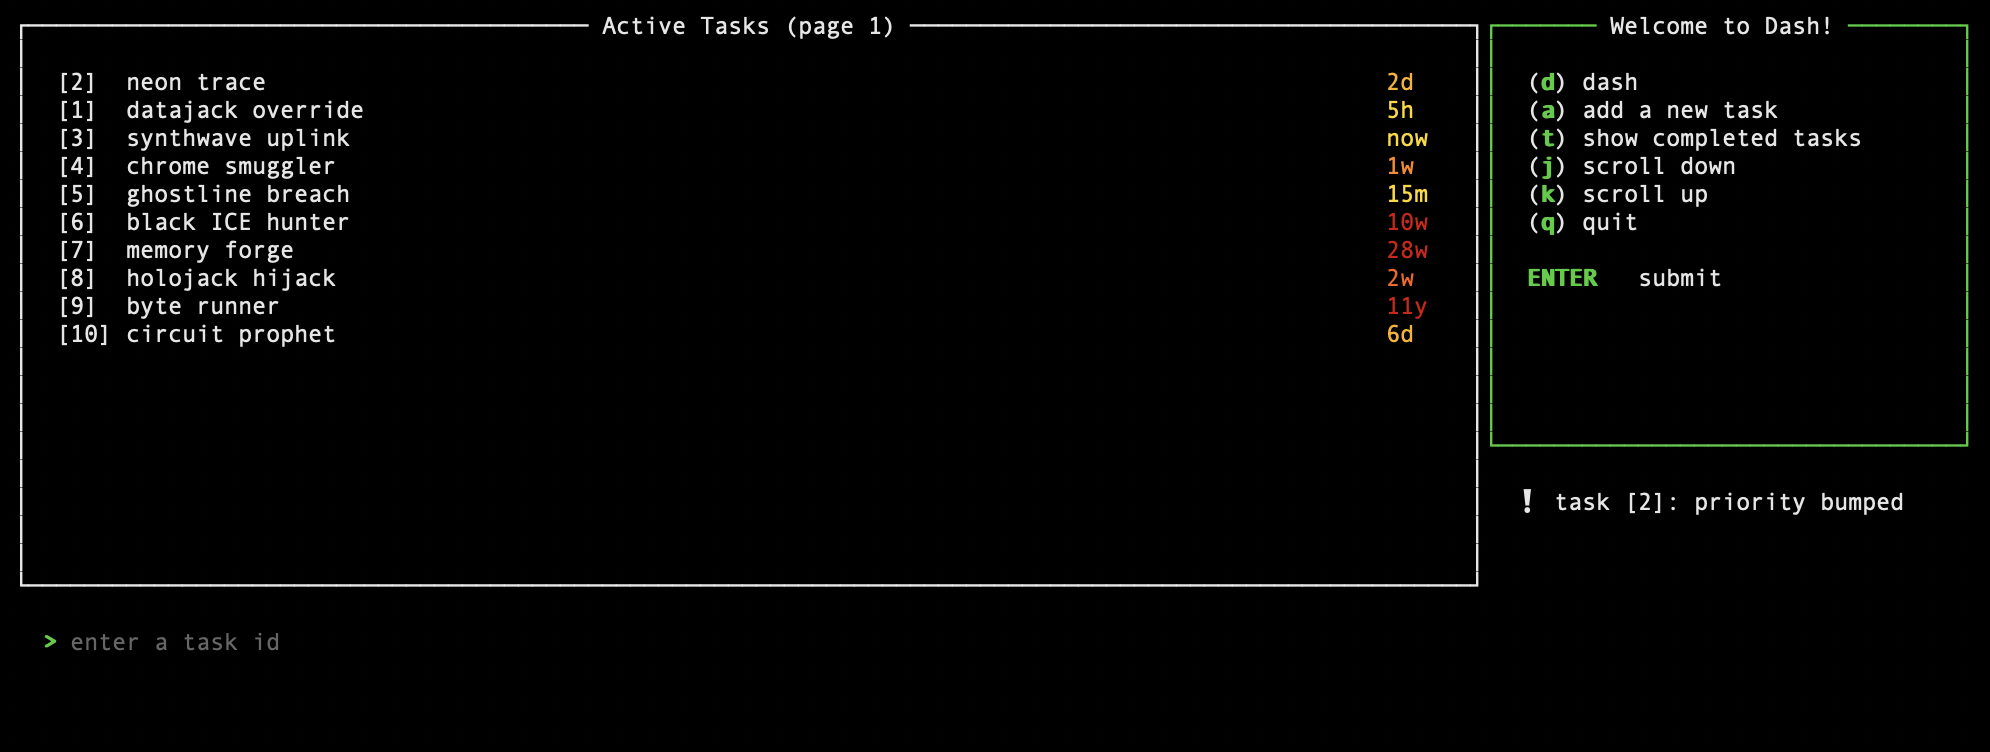
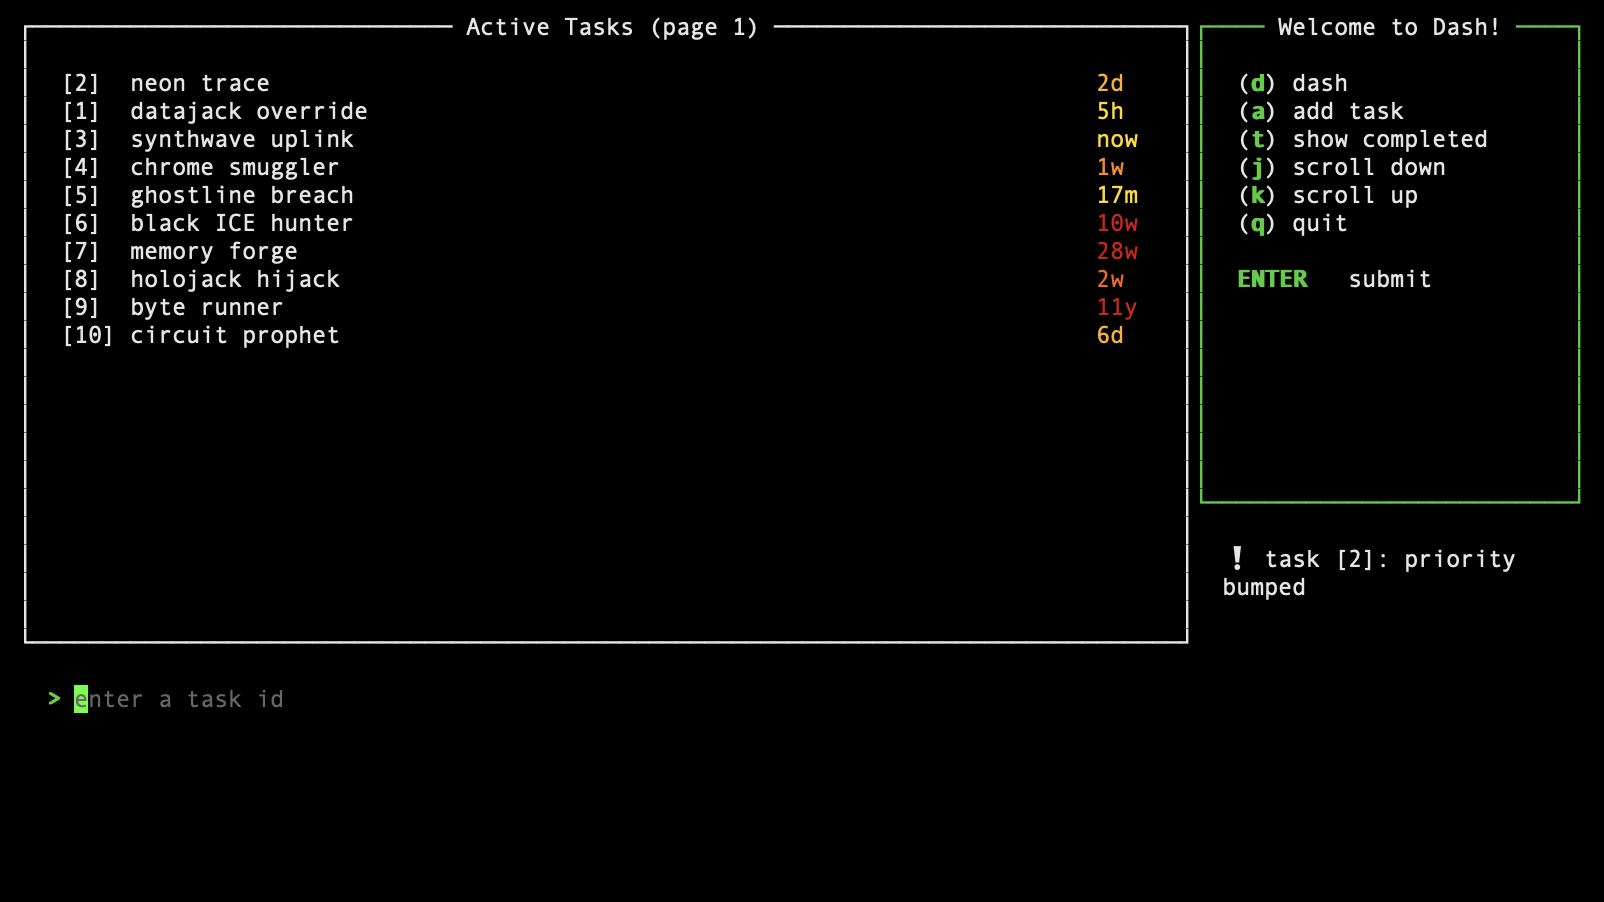
docs: update intro

diff --git a/internal/controller/dash.go b/internal/controller/dash.go
@@ -70,11 +70,11 @@ func (c *Controller) openDash() {
 	mode := config.KeybindInput
 	menu := tviewcomponents.NewKeybindMenu().
 		AddKeybind('r', "restart timer", tviewcomponents.DefaultBind, func() { timer.Reset(); timer.Start(c.queueUpdateDraw) }).
-		AddKeybind('d', "mark task as done", tviewcomponents.DefaultBind, markTaskDone(c))
+		AddKeybind('d', "mark as done", tviewcomponents.DefaultBind, markTaskDone(c))
 	if lastDashTask.ID != currentDashTask.ID {
-		menu.AddKeybind('u', "unmark task as done", tviewcomponents.DefaultBind, unmarkTaskDone(c))
+		menu.AddKeybind('u', "unmark as done", tviewcomponents.DefaultBind, unmarkTaskDone(c))
 	}
-	menu.AddKeybind('a', "add a new task", tviewcomponents.DefaultBind, func() { c.addTaskName(c.openDash) }).
+	menu.AddKeybind('a', "add task", tviewcomponents.DefaultBind, func() { c.addTaskName(c.openDash) }).
 		AddKeybind('e', "edit task", tviewcomponents.DefaultBind, func() { c.editTask(currentDashTask, c.openDash) }).
 		AddKeybind('b', "back", tviewcomponents.DefaultBind, func() { c.Home(); c.infoPanel.Clear() })
 

diff --git a/README.md b/README.md
@@ -1,8 +1,19 @@
 # Dash
 
-![Dash preview](preview.png)
+Dash is a lightweight task manager and focus timer for terminal.
 
-Dash is a small terminal task dashboard backed by SQLite.
+**Plan**
+
+![home page](preview_home.png)
+
+**Lock in**
+
+![dash](preview_dash.png)
+
+**Track**
+
+![completed tasks](preview_completed.png)
+
 
 ## Install
 
